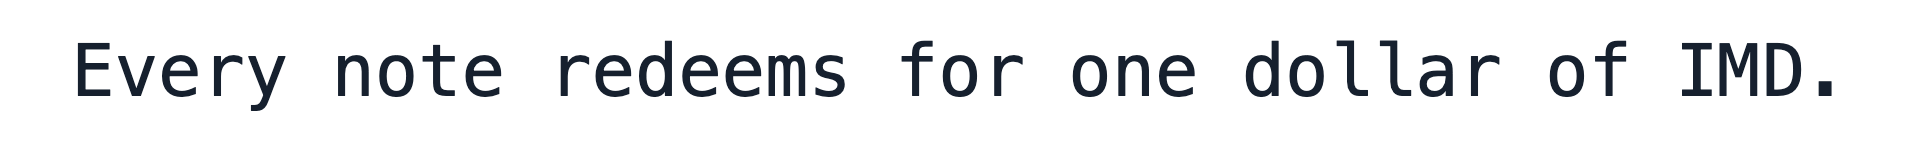
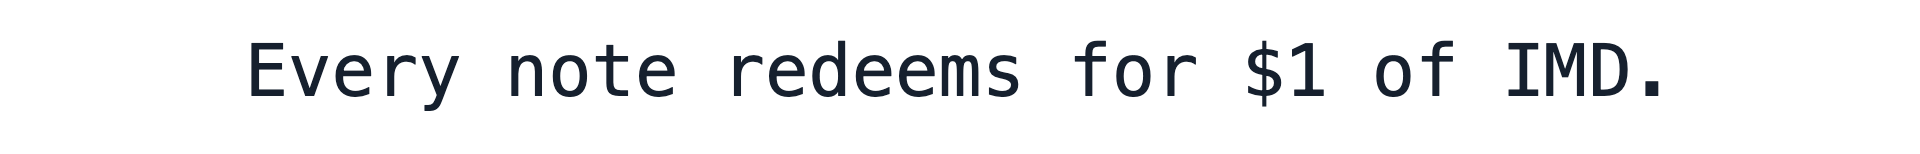
marketing/explainer/film-b: notes clear of the caption, "$1" wording, end card blinks STAGING -> LIVE
The sheet's grid shrinks so its bottom row ends above the lower-third caption. b4 reads "Every note redeems
for $1 of IMD." The etched end card comes in three chip states (STAGING, blank, LIVE); the chip and
"MAINNET ·" are ink so the one green word, LIVE, stands out, and assemble() blinks blank-on-blank-LIVE
at 0.80-1.25 s into the card.

Claude-Session: https://claude.ai/code/session_018mD8VTdZpm25fWMGf2XJAX

Changed region(s): [[0.0312, 0.2597, 0.9688, 0.7273]]

diff --git a/marketing/explainer/film-b/brand.html b/marketing/explainer/film-b/brand.html
@@ -69,7 +69,9 @@ function hatch(mask, gap = 9, lw = 3.2, cross = false) {
 
 // 4. film B's end card: the kit card's layout (mark, imdUSD lockup, address, chip) redrawn as an engraving on
 //    the plates' paper: engraved green, hatched fills with firm outlines, a banknote double rule.
-{
+//    Three states of the chip, for the blink from STAGING to LIVE: the chip and "MAINNET ·" are ink so that the
+//    one green word, LIVE, stands out on an otherwise green card.
+for (const status of ["STAGING", "", "LIVE"]) {
   const W = 1920, H = 1080, o = mk(W, H), c = o.getContext("2d");
   c.fillStyle = PAL.ivory; c.fillRect(0, 0, W, H);
   // faint wave field, as on the note's paper
@@ -99,9 +101,15 @@ function hatch(mask, gap = 9, lw = 3.2, cross = false) {
   c.font = `700 ${size}px ${FONT}`; c.strokeText("USD", x0 + w1, base);
   // the address and the chip, in engraved green
   c.fillStyle = PAL.green; c.textAlign = "center"; c.font = `500 46px ${FONT}`; c.fillText("imdusd.com", W / 2, 785);
-  c.font = `500 28px ${FONT}`; const chip = "MAINNET · STAGING", cw = c.measureText(chip).width + 60;
-  c.lineWidth = 2; c.strokeRect(W / 2 - cw / 2, 830, cw, 54); c.fillText(chip, W / 2, 867);
-  out["endcard-etched-1920x1080"] = o;
+  // the chip keeps one width (sized for the longer word) so it does not jump when the status changes
+  c.font = `500 28px ${FONT}`;
+  const lead = "MAINNET · ", cw = c.measureText(lead + "STAGING").width + 60, x0c = W / 2 - cw / 2;
+  c.strokeStyle = PAL.ink; c.lineWidth = 2; c.strokeRect(x0c, 830, cw, 54);
+  const tw = c.measureText(lead + (status || "STAGING")).width, tx = W / 2 - tw / 2;
+  c.textAlign = "left"; c.fillStyle = PAL.ink; c.fillText(lead, tx, 867);
+  if (status) { c.fillStyle = status === "LIVE" ? PAL.green : PAL.ink; if (status === "LIVE") c.font = `700 28px ${FONT}`; c.fillText(status, tx + c.measureText(lead).width, 867); }
+  c.textAlign = "center";
+  out["endcard-etched-1920x1080" + (status === "STAGING" ? "" : status === "LIVE" ? "-live" : "-blank")] = o;
 }
 
 const pre = document.createElement("pre"); pre.id = "out";

diff --git a/marketing/explainer/layers.html b/marketing/explainer/layers.html
@@ -148,7 +148,7 @@ const CAPTIONS = {
   "b1": "Who decides what a dollar is worth?",
   "b2": "Here, a panel of agents answers\none fixed question.",
   "b3": "The answer is signed.\nAnyone may request it.",
-  "b4": "Every note redeems for one dollar of IMD.",
+  "b4": "Every note redeems for $1 of IMD.",
   "url": "imdusd.com",
 };
 const caption = (txt, col) => {

diff --git a/marketing/explainer/film-b/build_b.py b/marketing/explainer/film-b/build_b.py
@@ -49,15 +49,17 @@ def on_sheet(u, v):
     return (top[0] + (bot[0] - top[0]) * v, top[1] + (bot[1] - top[1]) * v)
 # A freshly printed sheet: two columns by three rows of notes, each cell (u0, u1, v0, v1) on the sheet with a
 # paper gutter. The notes are on the sheet from the first frame of the shot (nothing assembles).
-COLS = ((0.05, 0.485), (0.515, 0.95))
-ROWS = ((0.04, 0.30), (0.33, 0.59), (0.62, 0.88))
+# Sized so the bottom row ends above the lower-third caption card (card top ~y 805; the sheet's left edge
+# reaches y 773 at v 0.65), with cells kept near the note's own 2.33:1 under the sheet's foreshortening.
+COLS = ((0.12, 0.48), (0.52, 0.88))
+ROWS = ((0.03, 0.22), (0.245, 0.435), (0.46, 0.65))
 CELLS = [(u0, u1, v0, v1) for v0, v1 in ROWS for u0, u1 in COLS]
 def cell_corners(c):
     u0, u1, v0, v1 = c
     return tuple(on_sheet(u, v) for u, v in ((u0, v0), (u1, v0), (u0, v1), (u1, v1)))
 SHEET_NOTE_CORNERS = (on_sheet(COLS[0][0], ROWS[0][0]), on_sheet(COLS[1][1], ROWS[0][0]),
                       on_sheet(COLS[0][0], ROWS[-1][1]), on_sheet(COLS[1][1], ROWS[-1][1]))   # the whole printed area
-SHEET_PORTRAIT = on_sheet(0.5, 0.45)                          # the push goes into the middle of the sheet
+SHEET_PORTRAIT = on_sheet(0.5, 0.34)                          # the push goes into the middle of the sheet
 NOTE_MASTER = os.path.join(ROOT, "marketing", "kit", "plates", "note-master.png")
 
 # Our mark on the plates that carry a blank place for one: the bank's pediment cartouche and the raised coin
@@ -123,7 +125,8 @@ ADVANCE = 1233 / 2048 * 72          # DejaVu Sans Mono advance at 72 px; fits th
 # Per aspect, in reference pixels: canvas, scene scale and offset, caption scale and centre y, style.
 ASPECTS = {
     "16x9": dict(ref=(1920, 1080), ground="ivory", scene=1.0, crop=None, at=(0, 0),
-                 cap=1.0, cap_cy=864, style="card", end=os.path.join(os.path.dirname(os.path.abspath(__file__)), "brand", "endcard-etched-1920x1080.png")),
+                 cap=1.0, cap_cy=864, style="card", end=os.path.join(os.path.dirname(os.path.abspath(__file__)), "brand", "endcard-etched-1920x1080.png"),
+                 blink=[("blank", 0.80, 0.95), ("blank", 1.10, 1.25), ("live", 1.25, 99)]),
     "1x1": dict(ref=(1080, 1080), ground="ivory", scene=1.0, crop=SAFE_1x1, at=(0, 0),
                 cap=0.5625, cap_cy=880, style="card", end="endcard-1080x1080.png"),
     "9x16": dict(ref=(1080, 1920), ground="ink", scene=0.5625, crop=None, at=(0, 500),
@@ -434,9 +437,19 @@ def assemble(scene, aspect, kout, work, music, out):
     inputs += ["-loop", "1", "-framerate", str(FPS), "-t", f"{n_end / FPS}", "-i", os.path.join(ENDCARDS, A["end"])]
     g.append(f"[{cur}]trim=end_frame={HIT_F},setpts=PTS-STARTPTS,format=yuv444p[main]")
     g.append(f"color=c={HEX['ivory']}:s={W}x{H}:r={FPS},trim=end_frame={FLASH_F},format=yuv444p[flash]")
-    g.append(f"[{idx}:v]scale={W}:{H}:flags=lanczos,fps={FPS},trim=end_frame={n_end},setsar=1,format=yuv444p[end]")
-    g.append("[main][flash][end]concat=n=3:v=1:a=0,setsar=1[v]")
+    g.append(f"[{idx}:v]scale={W}:{H}:flags=lanczos,fps={FPS},trim=end_frame={n_end},setsar=1,format=yuv444p[end0]")
     idx += 1
+    # The status chip blinks from STAGING to LIVE: off, on, off, then LIVE for the rest of the card.
+    # Times are seconds into the end card (it starts at 36.567 s).
+    cur_end = "end0"
+    if A.get("blink"):
+        base = os.path.splitext(A["end"])[0]
+        for j, (img, t_on, t_off) in enumerate(A["blink"]):
+            inputs += ["-loop", "1", "-framerate", str(FPS), "-t", f"{n_end / FPS}", "-i", f"{base}-{img}.png"]
+            g.append(f"[{idx}:v]scale={W}:{H}:flags=lanczos,fps={FPS},trim=end_frame={n_end},setsar=1,format=yuv444p[bk{j}]")
+            g.append(f"[{cur_end}][bk{j}]overlay=0:0:enable='between(t,{t_on},{t_off})'[eb{j}]")
+            cur_end = f"eb{j}"; idx += 1
+    g.append(f"[main][flash][{cur_end}]concat=n=3:v=1:a=0,setsar=1[v]")
     if music:
         inputs += ["-i", music]
         g.append(f"[{idx}:a]aresample=48000,atrim=0:40,asetpts=PTS-STARTPTS[a]")
